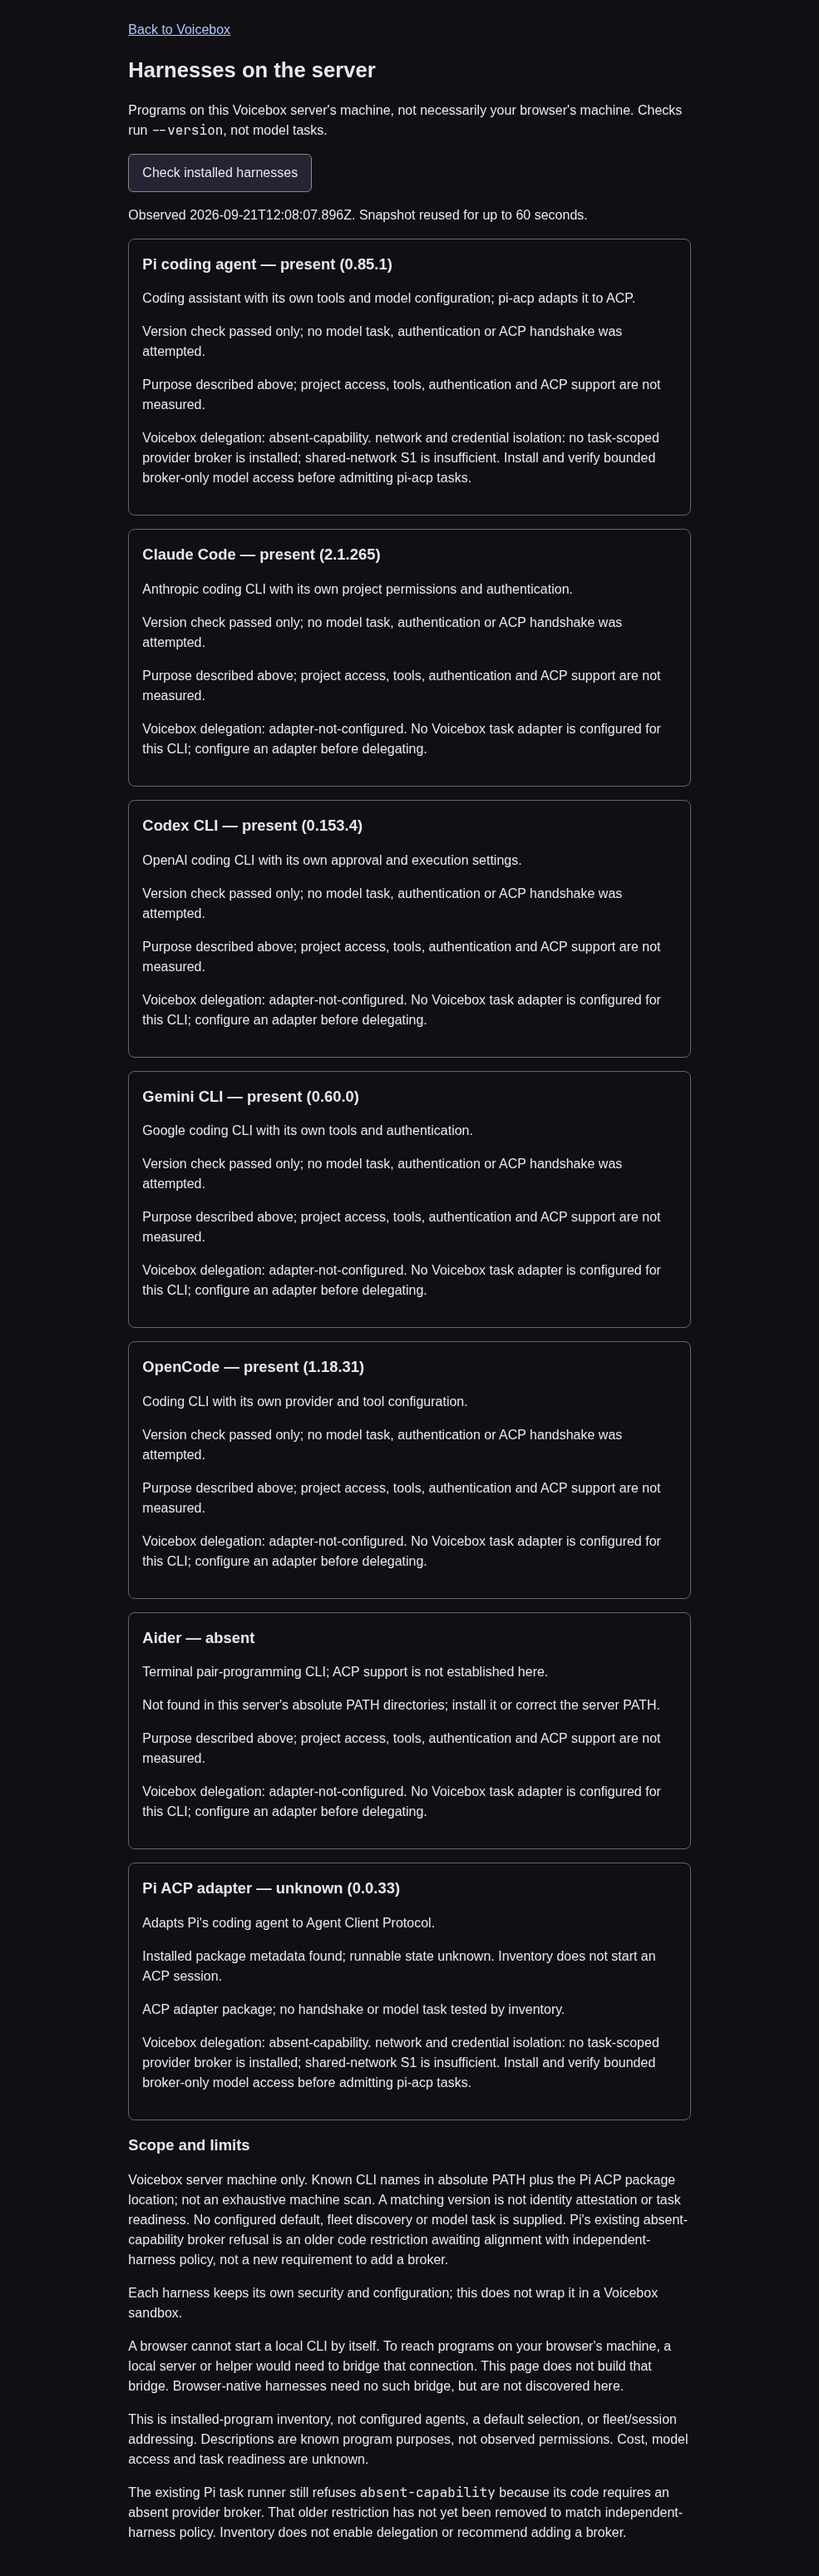
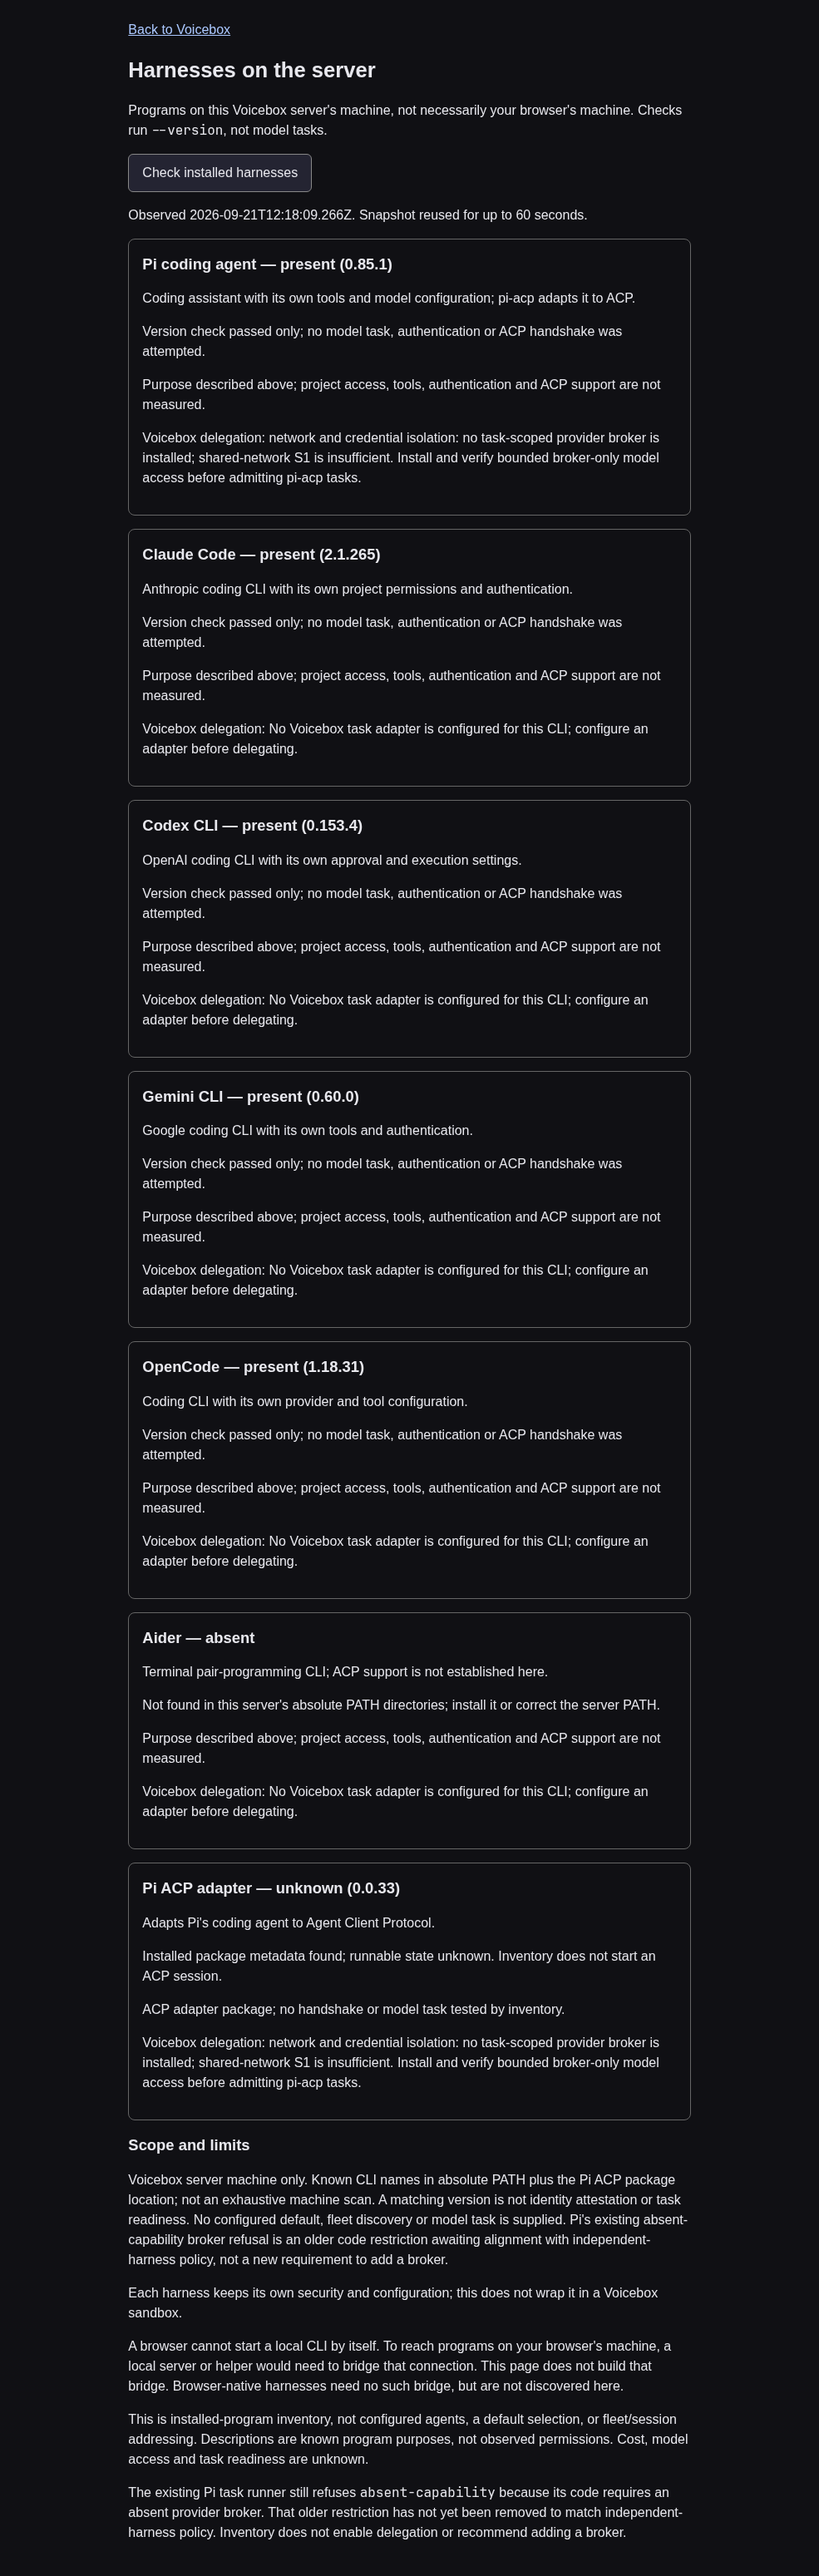
Show harness refusal explanations instead of diagnostic IDs

diff --git a/public/harnesses.js b/public/harnesses.js
@@ -23,7 +23,8 @@ button.addEventListener("click", async () => {
       text(article, "p", row.description);
       text(article, "p", row.why);
       text(article, "p", row.capabilities);
-      text(article, "p", `Voicebox delegation: ${row.delegation.refused}. ${row.delegation.why}`);
+      article.dataset.delegationRefusal = row.delegation.refused;
+      text(article, "p", `Voicebox delegation: ${row.delegation.why}`);
       list.append(article);
     }
     scope.textContent = `${report.scope}. ${report.note}`;

diff --git a/docs/evidence/harness-inventory/README.md b/docs/evidence/harness-inventory/README.md
@@ -43,3 +43,22 @@ state for unrecognized output. Restore original file; same command: exit 0,
 Not delivered: bridge, configured agents/default policy, voice catalogue tools,
 fleet routing, real model tasks, sandbox changes, remote-machine discovery.
 The authored gfg bead remains open for the configuration-dependent scope.
+
+## Independent review follow-up
+
+The reviewer passed inventory behavior but found diagnostic refusal IDs exposed as
+visible card text. The follow-up retains each ID in `data-delegation-refusal` and
+shows its explanation only. Pi's actual production refusal is unchanged.
+
+With only the new browser assertions applied to `27741b8`, running
+`node --test tests/harness-inventory.test.mjs` failed (2 pass, 1 fail):
+`pi: refusal identifier must not be visible`. See `review-fix-red.log`.
+After the rendering change the same command passed 3/3 (`review-fix-green.log`).
+All seven cards are checked for hidden diagnostic IDs, retained data attributes,
+and visible human-readable explanations. Screenshots and real-host observations
+were refreshed with the fix.
+
+The general acceptance check scans source literals, not rendered API data. Adding
+an identifier regex there would still miss this interpolation. Follow-up bead
+`voicebox-beads-0ye` tracks rendered-state coverage, costs and limitations; the
+source denylist was not silently widened.

diff --git a/docs/12-harness-inventory.md b/docs/12-harness-inventory.md
@@ -44,7 +44,9 @@ Known-purpose descriptions are separate from observed permissions. Project acces
 model access, cost, reliability and ACP support for ordinary CLIs remain unmeasured.
 Pi/pi-acp rows expose the actual production executor's `absent-capability` refusal.
 The stock server has no task executor. Other CLI rows say `adapter-not-configured`.
-The obsolete broker restriction is **a remaining code gap**, not a new policy decision.
+Inventory cards display the refusal's explanation, with its diagnostic identifier kept in
+`data-delegation-refusal`, not repeated as visible text. The obsolete broker restriction
+is **a remaining code gap**, not a new policy decision.
 
 A person explicitly starts the checks. The server shares one timestamped snapshot for
 60 seconds to avoid spawning more probes per reader. If the connection fails the page
